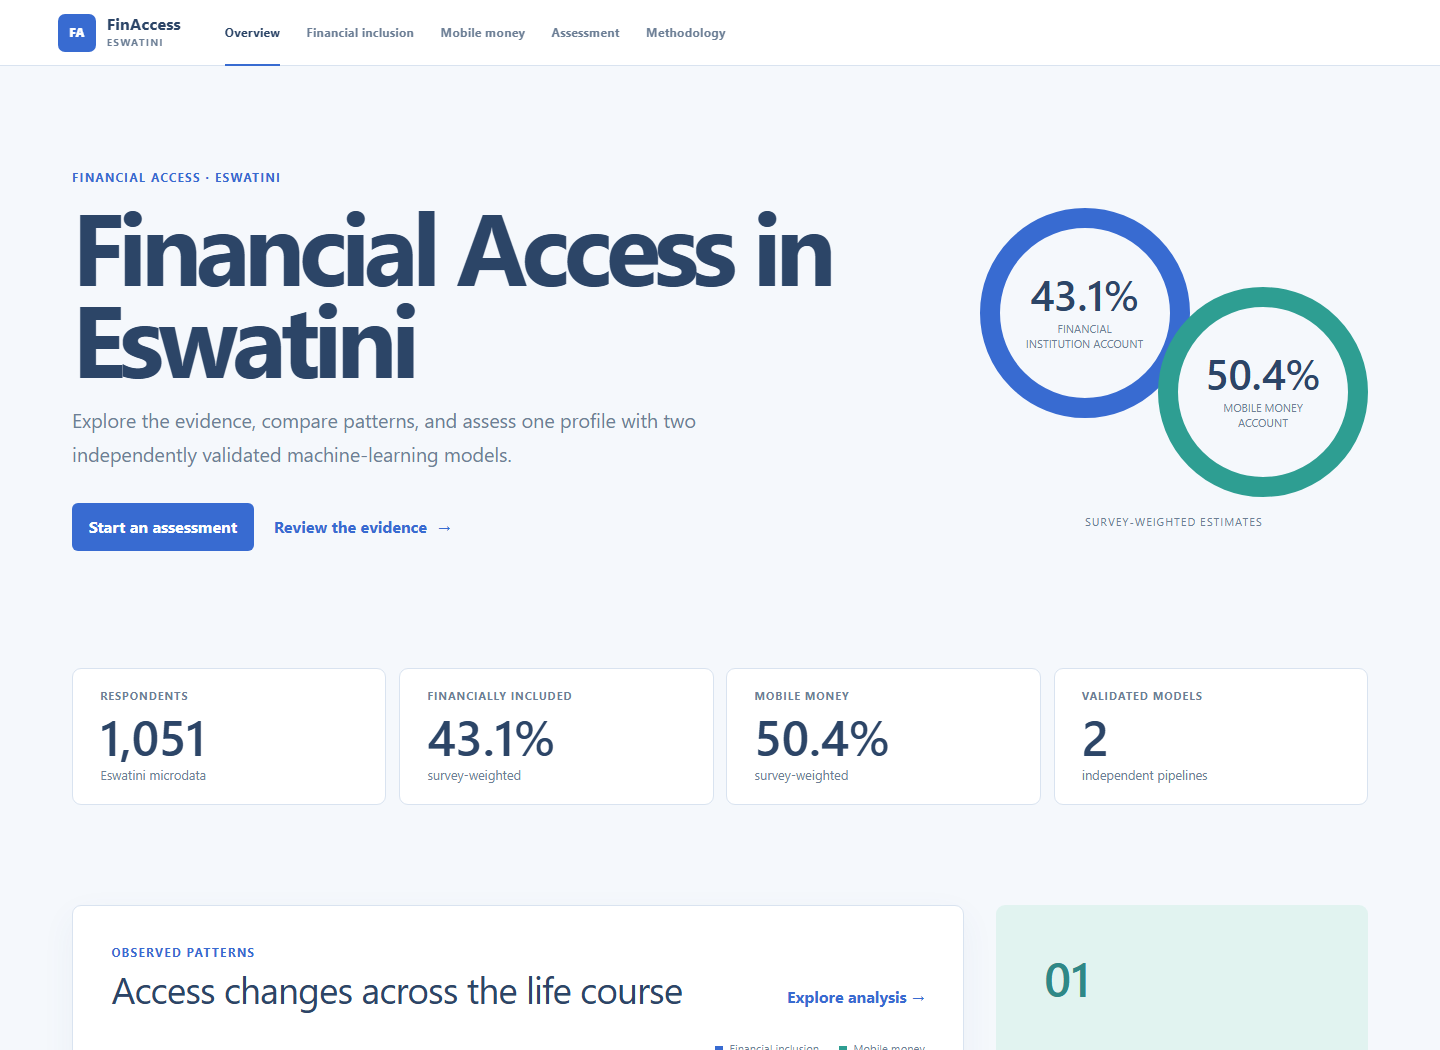
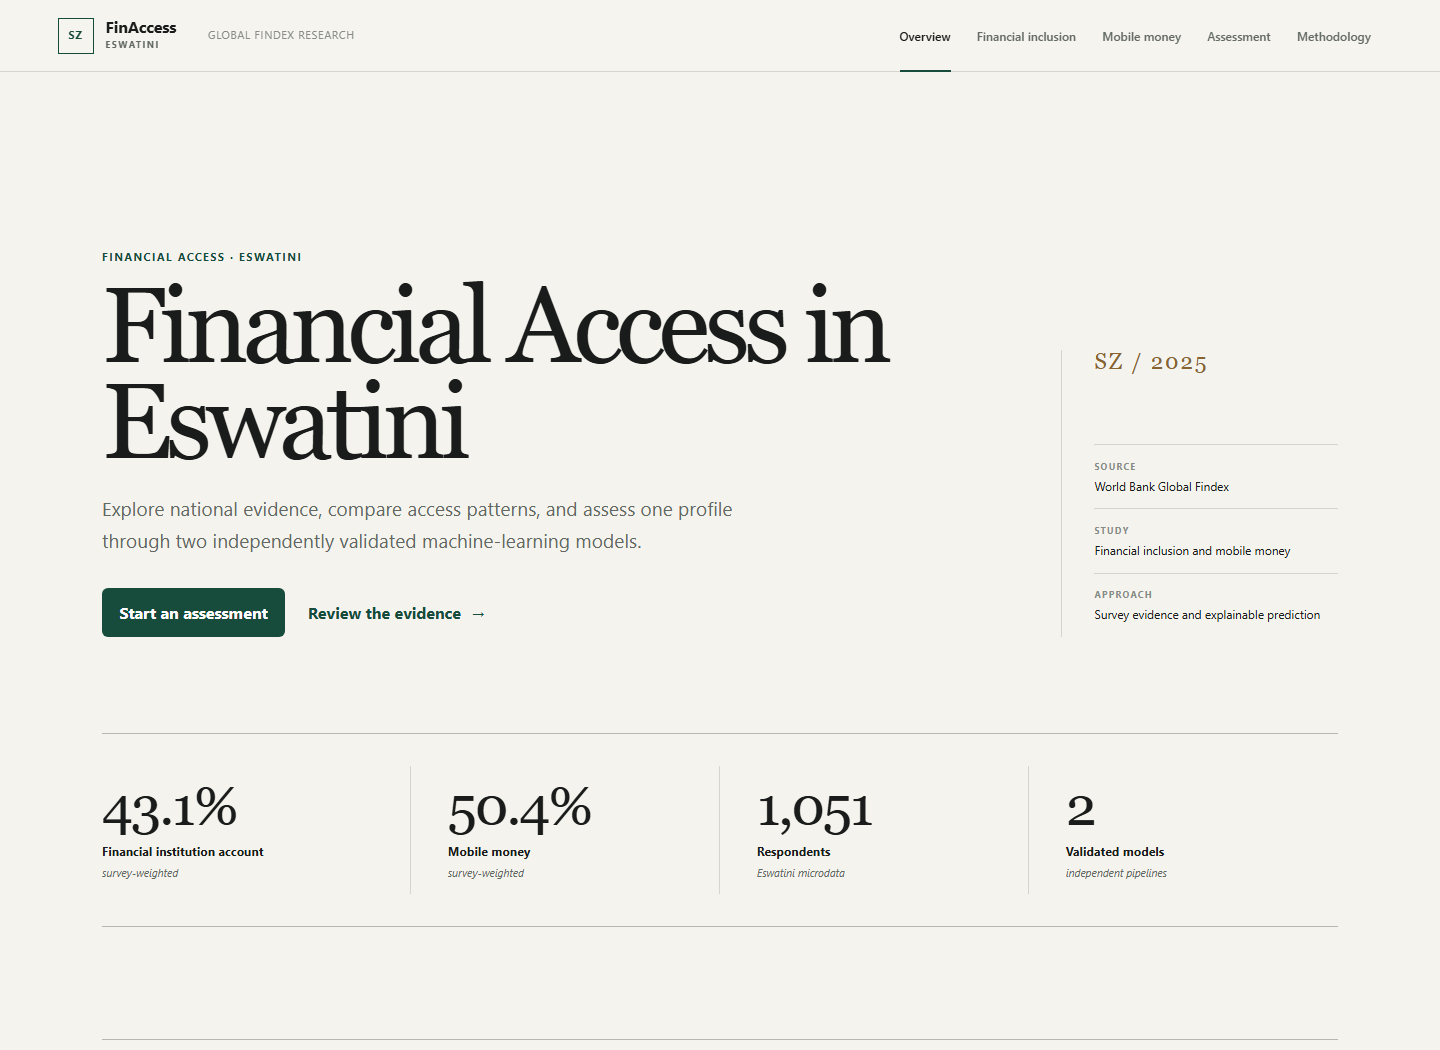
Update README screenshots

diff --git a/README.md b/README.md
@@ -4,7 +4,7 @@ The deployable FinAccess Eswatini product: a responsive Next.js interface and a 
 
 [Open the live application](https://finaccess-eswatini.vercel.app) | [Interactive API documentation](https://finaccess-eswatini.vercel.app/api/docs)
 
-![FinAccess Eswatini overview](docs/screenshots/overview.png)
+<img src="docs/screenshots/overview.png" alt="FinAccess Eswatini overview" width="100%">
 
 ## Product experience
 
@@ -18,7 +18,7 @@ The selected **Signal** direction presents five connected areas:
 
 The result hierarchy leads with a clear answer, followed by a supporting probability and five signed factors generated from the relevant SHAP explainer.
 
-![Two-model assessment result](docs/screenshots/assessment-results.png)
+<img src="docs/screenshots/assessment-results.png" alt="Two-model assessment result" width="100%">
 
 ## Deployment architecture
 
